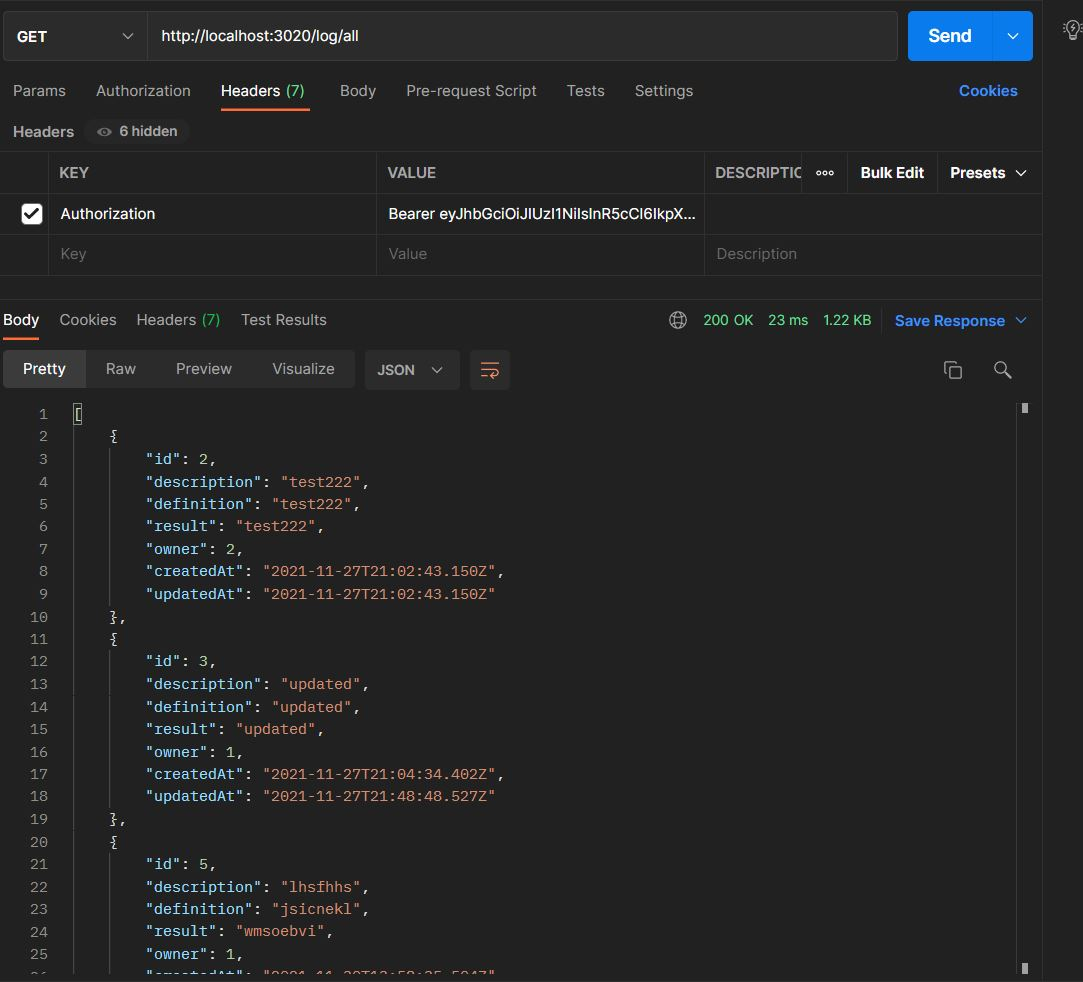
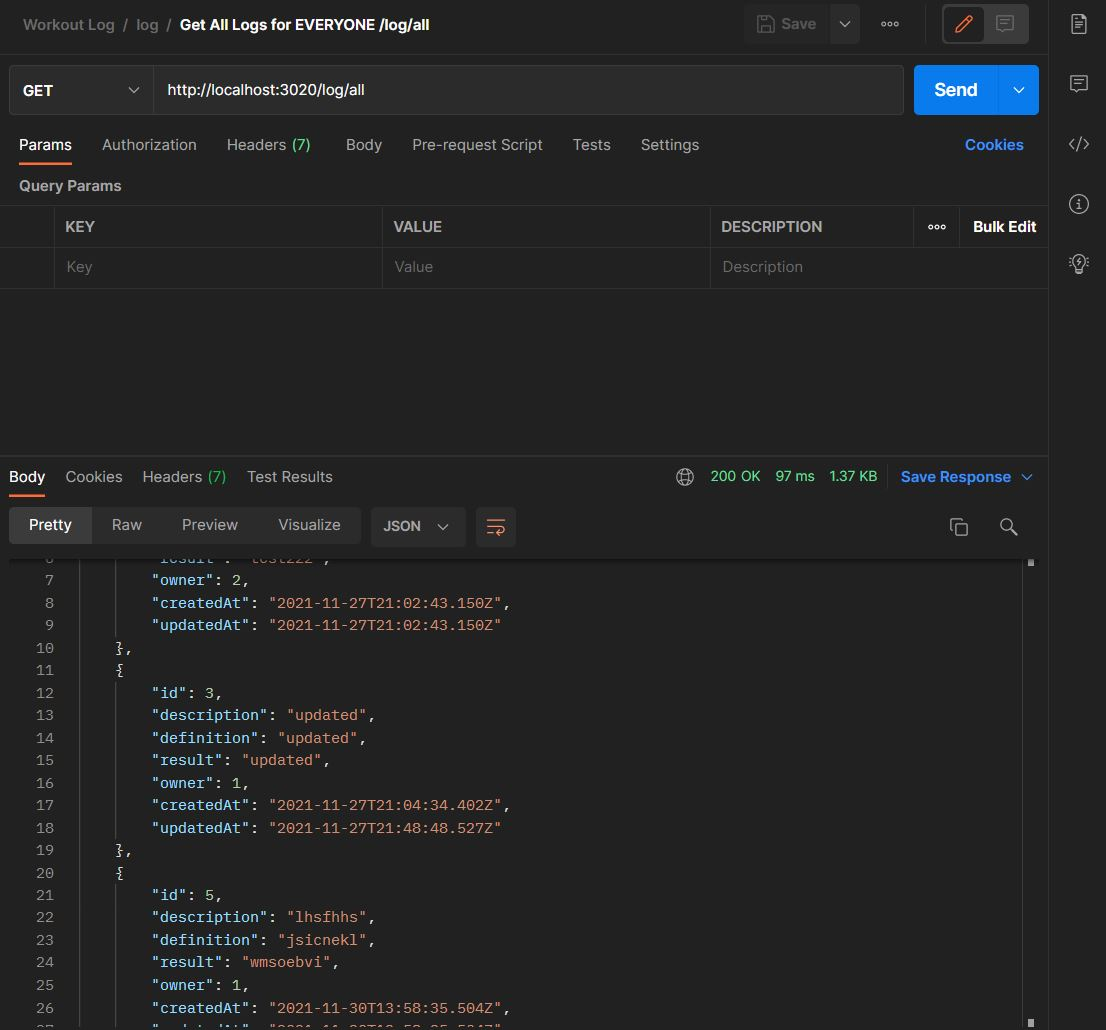
updated images

diff --git a/Projects/WorkoutLog/server/controllers/logcontroller.js b/Projects/WorkoutLog/server/controllers/logcontroller.js
@@ -34,7 +34,7 @@ router.post('/', validateJWT, async (req, res) => {
 });
 
 // //! GET all entries
-router.get("/:all", async (req, res) => {
+router.get("/all", async (req, res) => {
     try {
         const entries = await LogModel.findAll();
         res.status(200).json(entries);
@@ -60,17 +60,38 @@ router.get("/", validateJWT, async (req, res) => {
 });
 
 //! GET log by id for user
+// router.get("/:id", async (req, res) => {
+//     const { id } = req.params;
+//     try {
+//         const results = await LogModel.findOne({
+//             where: { id: id }
+//         });
+//         res.status(200).json(results);
+//     } catch (err) {
+//         res.status(500).json({ error: err });
+//     }
+// });
+
 router.get("/:id", async (req, res) => {
-    const { id } = req.params;
+    // const { id } = req.params
     try {
-        const results = await LogModel.findOne({
-            where: { id: id }
-        });
-        res.status(200).json(results);
+        const locatedLog = await LogModel.findOne({
+            where: {
+                owner: req.user.id,
+                id: req.params.id
+            },
+            
+        })
+        res.status(200).json({
+            message: "Log successfully retrieved",
+            locatedLog
+        })
     } catch (err) {
-        res.status(500).json({ error: err });
+        res.status(500).json({
+            message: `Failed to retrieve Logs: ${err}`
+        })
     }
-});
+})
 
 //! PUT updating a Log entry
 router.put("/:logId", validateJWT, async (req, res) => {
@@ -86,9 +107,9 @@ router.put("/:logId", validateJWT, async (req, res) => {
     };
 
     const updatedLog = {
-        description: description,
-        definition: definition,
-        result: result
+        description,
+        definition,
+        result
     };
 
     try {

diff --git a/Projects/WorkoutLog/README.md b/Projects/WorkoutLog/README.md
@@ -1,25 +1,25 @@
 # WorkoutLog
 
 #### POST | /user/register | Create user with username/login.
-<img src= "assets/UserRegister.JPG" width = 100%>
+<img src= "assets/RegisterUser.JPG" width = 100%>
 
 #### POST | /user/login | Log in with an existing user.
-<img src= "assets/UserLogin.JPG" width = 100%>
+<img src= "assets/LoginUser.JPG" width = 100%>
 
 #### POST | /log/ | Create Log..
 <img src= "assets/CreateLog.JPG" width = 100%>
 
 #### GET | /log/ | Gets all logs for user.
-<img src= "assets/GetLogsByUser.JPG" width = 100%>
+<img src= "assets/GetAllLogsByUser.JPG" width = 100%>
 
 #### GET | /log/:id | Gets individual logs by id for user.
-<img src= "assets/GetLogsByID.JPG" width = 100%>
+<img src= "assets/GetLogByID.JPG" width = 100%>
 
 #### PUT | /log/:id | Update log by user.
-<img src= "assets/UpdateUserLog.JPG" width = 100%>
+<img src= "assets/UpdateLogByUser.JPG" width = 100%>
 
 #### DELETE | /log/:id | Delete user log by id.
-<img src= "assets/DeleteLog.JPG" width = 100%>
+<img src= "assets/DeletePost.JPG" width = 100%>
 
-#### GET | /log/all | Gets all logs.
-<img src= "GetAllLogs.JPG" width = 100%>
+#### GET | /log/all | Gets all logs. This one isn't needed, but it gave me a lot of issue, so I included it....
+<img src= "assets/GetAllLogs.JPG" width = 100%>
